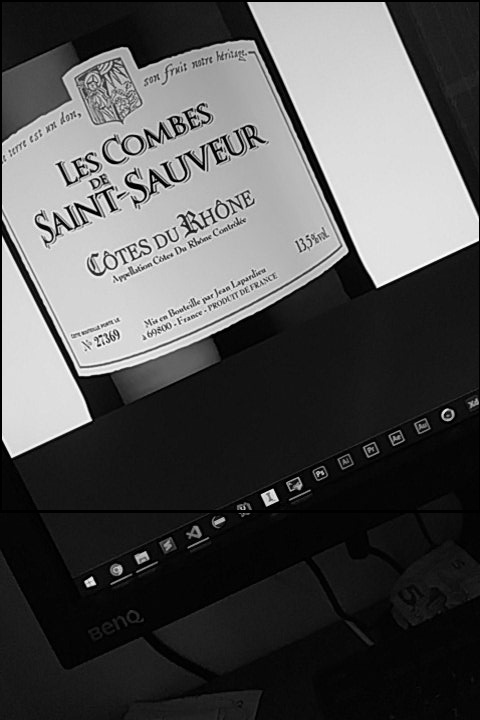
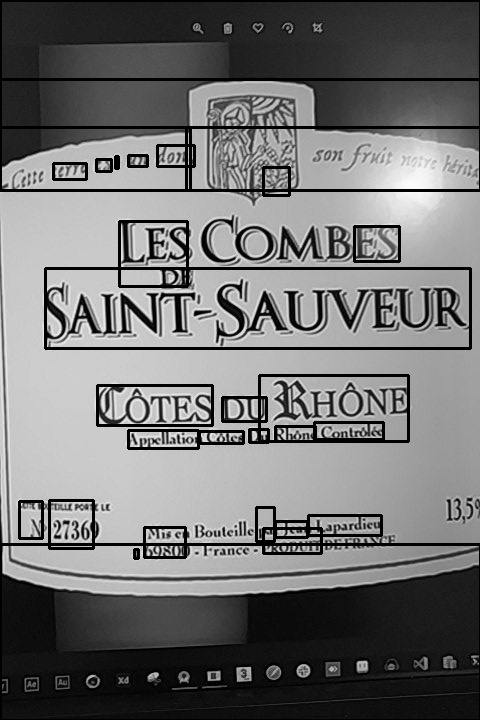
zip

diff --git a/API/server.py b/API/server.py
@@ -85,6 +85,9 @@ def find():
             
             # Draw the boxes on the image
             img = cv2.rectangle(img, (x, y), (x + w, y + h), (0, 255, 0), 2)
+ 
+    # Save the image
+    cv2.imwrite("images/tmp.jpg", img)
 
     # Content
     parse_text = []
@@ -102,6 +105,8 @@ def find():
         if (last_word != '' and word == '') or (word == details['text'][-1]):
             parse_text.append(word_list)
             word_list = []
+
+    print(parse_text)
 
     # Merge all the sublists into one list
     mergedList = []

diff --git a/API/README.md b/API/README.md
@@ -7,6 +7,12 @@
 * `rails generate scaffold HighScore game:string score:integer`
 * `rails db:migrate`
 
+# Docker commands
+
+* `docker rm flask1`
+* `docker build -t winenot/flask:v1.3 .`
+* `docker run --name flask1 7e61ee43228e`
+
 # Structure
 
 * Changer l'ui des formulaires:
